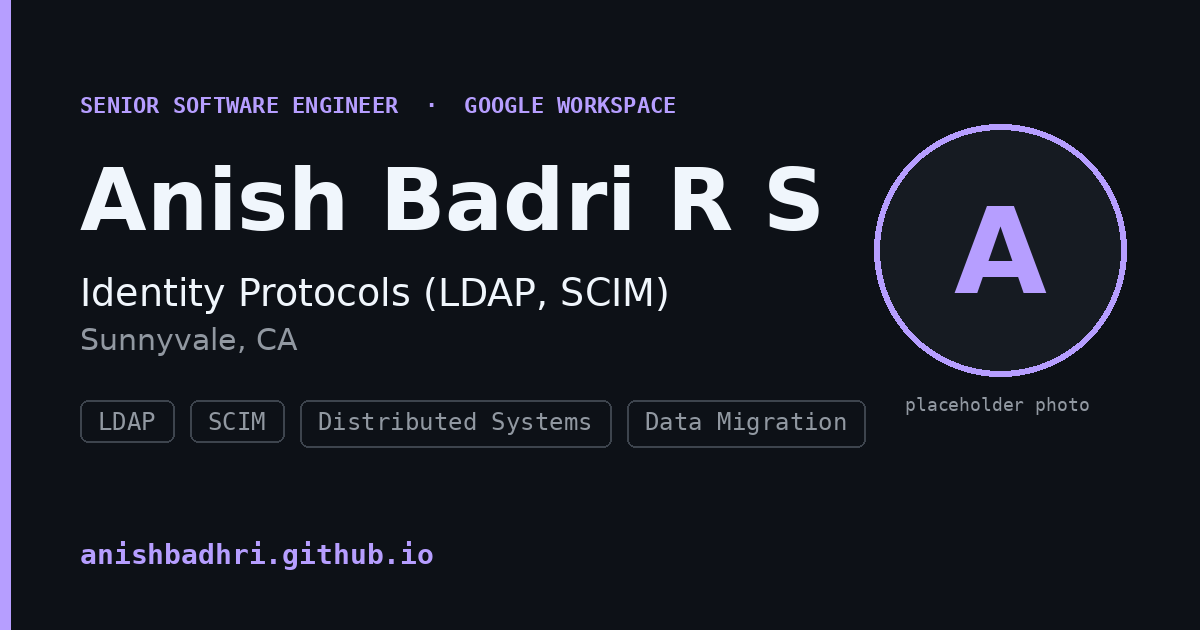
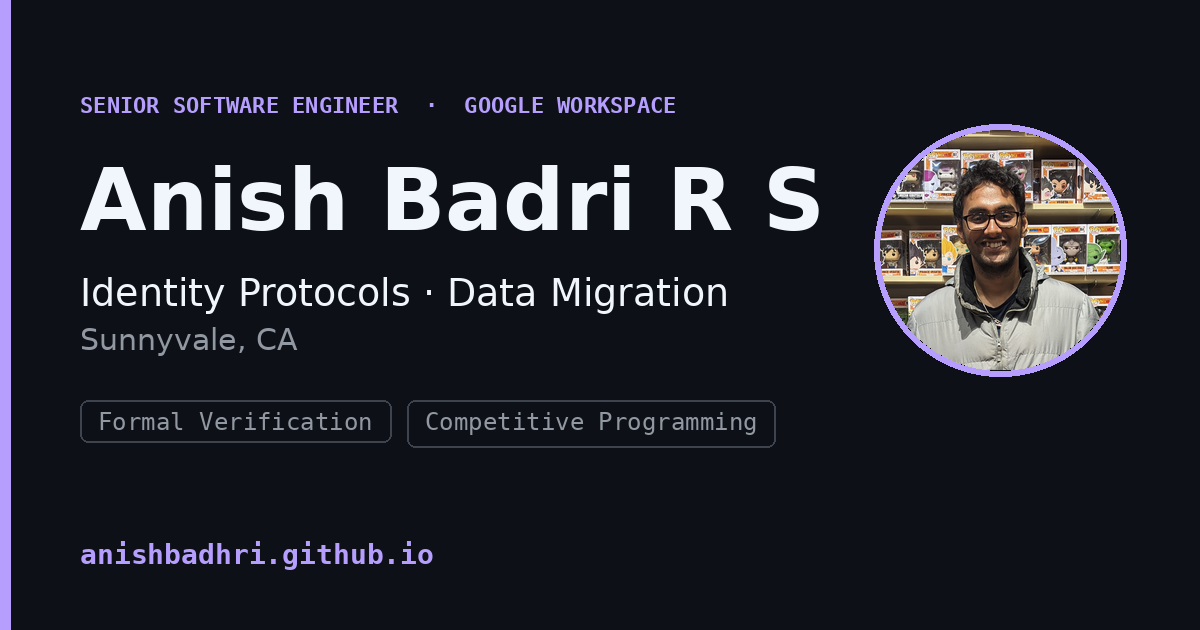
Updating profile

diff --git a/src/_data/resume.js b/src/_data/resume.js
@@ -1,59 +1,95 @@
 module.exports = {
   // Short intro shown under the hero.
   summary:
-    "I build identity and data-migration systems at Google Workspace, currently as a tech lead working across identity protocols such as LDAP and SCIM. Before that I spent years on competitive programming and formal verification — compilers, model checkers and SAT solvers — and I still like problems that need both.",
+    "I'm a senior software engineer at Google Workspace, where I work on identity protocols, building on earlier work in large-scale data migration and synchronization for enterprise customers. Before Google I spent years on competitive programming and formal verification — compilers, model checkers and SAT solvers — and I still gravitate toward problems that need both.",
 
+  // Experience is grouped by company; each company holds one or more roles
+  // (focuses). A single-role job is just a company with one role, so the same
+  // shape covers internships and multi-focus positions alike — add future
+  // entries the same way. Per role: title, org (sub-org/team, optional),
+  // location, focus (optional accent label), start (YYYY-MM, for <time>),
+  // dateLabel, current (optional), highlights, stack.
   experience: [
     {
-      role: "Senior Software Engineer",
-      org: "Google",
-      team: "Google Workspace · Sunnyvale, CA",
-      focus: "Identity Protocols (LDAP, SCIM)",
-      start: "2020-08",
-      dateLabel: "Aug 2020 – Present",
-      current: true,
-      highlights: [
-        "Tech lead across multiple identity-protocol projects in Google Workspace, spanning LDAP and SCIM.",
-        "Led the end-to-end design of full-stack data-migration and identity-synchronization services for enterprise customers.",
-        "Onboarded over 100K users from sources including Microsoft, IMAP servers and Dropbox.",
-        "Drove performance optimizations across migration services, improving scalability and cutting API latency by up to 67%.",
+      company: "Google",
+      roles: [
+        {
+          title: "Senior Software Engineer",
+          org: "Google Workspace",
+          location: "Sunnyvale, CA",
+          focus: "Identity Protocols (LDAP, SCIM)",
+          start: "2025-12",
+          dateLabel: "Dec 2025 – Present",
+          current: true,
+          highlights: [
+            "Tech lead across identity-protocol projects spanning Secure LDAP and SCIM.",
+          ],
+          stack: ["Java", "TypeScript", "Cloud Spanner", "LDAP", "SCIM", "Bigtable"],
+        },
+        {
+          title: "Software Engineer III",
+          org: "Google Workspace",
+          location: "Bengaluru, India",
+          focus: "Customer Onboarding (Data Migration)",
+          start: "2020-08",
+          dateLabel: "Aug 2020 – Nov 2025",
+          highlights: [
+            "Led the end-to-end design of full-stack data-migration and identity-synchronization services for enterprise customers.",
+            "Onboarded over 100K users from sources including Microsoft, IMAP servers and Dropbox.",
+            "Drove performance optimizations across migration services, improving scalability and cutting API latency by up to 67%.",
+          ],
+          stack: ["Java", "TypeScript", "Cloud Spanner", "Message Queues", "ETL Pipelines"],
+        },
       ],
-      stack: ["Java", "TypeScript", "Cloud Spanner", "Message Queues", "ETL Pipelines"],
-      note: "Earlier work at Google was in the Customer Onboarding team (Bengaluru).",
     },
     {
-      role: "Software Engineering Intern",
-      org: "Motorq",
-      team: "Chennai, India",
-      dateLabel: "Dec 2019 – Jan 2020",
-      highlights: [
-        "Automated A/B testing comparing data returned by production code and a new implementation.",
-        "Proposed testing improvements modelled on the stable-marriage problem.",
-        "Cut the time to push code to production by 12 hours.",
+      company: "Motorq",
+      roles: [
+        {
+          title: "Software Engineering Intern",
+          location: "Chennai, India",
+          start: "2019-12",
+          dateLabel: "Dec 2019 – Jan 2020",
+          highlights: [
+            "Automated A/B testing comparing data returned by production code and a new implementation.",
+            "Proposed testing improvements modelled on the stable-marriage problem.",
+            "Cut the time to push code to production by 12 hours.",
+          ],
+          stack: ["Snowflake", "Azure Blob Storage", "Node.js", "TypeScript"],
+        },
       ],
-      stack: ["Snowflake", "Azure Blob Storage", "Node.js", "TypeScript"],
     },
     {
-      role: "Software Engineering Intern",
-      org: "Google",
-      team: "Bengaluru, India",
-      dateLabel: "May 2019 – Jul 2019",
-      highlights: [
-        "Built a bridge from index pagination to token pagination for the list-users API, making time per call independent of the number of users.",
-        "Reduced the per-call upper bound from 12s to 3s.",
+      company: "Google",
+      roles: [
+        {
+          title: "Software Engineering Intern",
+          location: "Bengaluru, India",
+          start: "2019-05",
+          dateLabel: "May 2019 – Jul 2019",
+          highlights: [
+            "Built a bridge from index pagination to token pagination for the list-users API, making time per call independent of the number of users.",
+            "Reduced the per-call upper bound from 12s to 3s.",
+          ],
+          stack: ["Java", "Cloud Spanner", "Message Queues"],
+        },
       ],
-      stack: ["Java", "Cloud Spanner", "Message Queues"],
     },
     {
-      role: "Software Development Intern",
-      org: "Freshworks",
-      team: "Chennai, India",
-      dateLabel: "May 2018 – Jul 2018",
-      highlights: [
-        "Integrated Freshdesk with third-party applications using the Freshworks SDK on Node.js.",
-        "Removed tab-switching and kept data synchronized across applications.",
+      company: "Freshworks",
+      roles: [
+        {
+          title: "Software Development Intern",
+          location: "Chennai, India",
+          start: "2018-05",
+          dateLabel: "May 2018 – Jul 2018",
+          highlights: [
+            "Integrated Freshdesk with third-party applications using the Freshworks SDK on Node.js.",
+            "Removed tab-switching and kept data synchronized across applications.",
+          ],
+          stack: ["Node.js", "SDK Development"],
+        },
       ],
-      stack: ["Node.js", "SDK Development"],
     },
   ],
 

diff --git a/src/styles/components.css b/src/styles/components.css
@@ -93,30 +93,53 @@
 /* --- Experience ----------------------------------------------------------- */
 .exp {
   display: grid;
-  gap: 2.5rem;
+  gap: 2.75rem; /* between companies */
 }
-.exp__item {
+.exp__company {
   display: grid;
-  gap: 0.4rem 2rem;
-  grid-template-columns: 1fr;
+  gap: 1.1rem;
 }
-@media (min-width: 48rem) {
-  .exp__item {
-    grid-template-columns: 12rem 1fr;
-  }
+.exp__company-name {
+  font-size: 1.25rem;
+  font-weight: 650;
+  letter-spacing: -0.01em;
 }
+/* Roles of one company are grouped under a subtle rail. A single-role company
+   simply has one role here — same structure, no special casing. */
+.exp__roles {
+  display: grid;
+  gap: 1.75rem; /* between roles within a company */
+  border-inline-start: 2px solid var(--borderColor-default);
+  padding-inline-start: clamp(1rem, 3vw, 1.75rem);
+}
+.exp__role-item {
+  display: flex;
+  flex-wrap: wrap;
+  gap: 0.6rem 2rem;
+}
+/* Intrinsic "sidebar": the date column sits beside the body when there's room
+   and wraps above it when there isn't — no width breakpoint needed. */
 .exp__meta {
+  flex: 1 1 9rem;
   font-family: var(--fontStack-monospace);
   font-size: 0.8125rem;
   color: var(--fgColor-muted);
   padding-block-start: 0.3rem;
 }
+.exp__body {
+  flex: 999 1 0;
+  min-inline-size: min(100%, 20rem);
+}
 .exp__role {
+  font-family: var(--fontStack-sansSerifDisplay);
+  font-size: 1.0625rem;
+  font-weight: 600;
+  line-height: 1.3;
   margin-block-end: 0.15rem;
 }
 .exp__org {
   color: var(--fgColor-muted);
-  margin-block-end: 0.9rem;
+  margin-block-end: 0.5rem;
 }
 .exp__org .org-name {
   color: var(--fgColor-default);
@@ -153,22 +176,12 @@
   gap: 0.4rem;
   margin-block-start: 0.5rem;
 }
-.exp__note {
-  margin-block-start: 0.75rem;
-  font-size: 0.85rem;
-  color: var(--fgColor-muted);
-}
 
 /* --- Projects ------------------------------------------------------------- */
 .projects {
   display: grid;
   gap: 1.25rem;
-  grid-template-columns: 1fr;
-}
-@media (min-width: 44rem) {
-  .projects {
-    grid-template-columns: repeat(2, 1fr);
-  }
+  grid-template-columns: repeat(auto-fit, minmax(min(100%, 26rem), 1fr));
 }
 .project {
   display: flex;
@@ -215,12 +228,7 @@
 .skills {
   display: grid;
   gap: 1.75rem;
-  grid-template-columns: 1fr;
-}
-@media (min-width: 40rem) {
-  .skills {
-    grid-template-columns: repeat(2, 1fr);
-  }
+  grid-template-columns: repeat(auto-fit, minmax(min(100%, 22rem), 1fr));
 }
 .skills__group-title {
   font-family: var(--fontStack-monospace);
@@ -240,12 +248,7 @@
 .edu {
   display: grid;
   gap: 2rem;
-  grid-template-columns: 1fr;
-}
-@media (min-width: 48rem) {
-  .edu {
-    grid-template-columns: 1.1fr 1fr;
-  }
+  grid-template-columns: repeat(auto-fit, minmax(min(100%, 20rem), 1fr));
 }
 .edu__degree {
   margin-block: 0.3rem;
@@ -278,13 +281,8 @@
 /* --- Highlights ----------------------------------------------------------- */
 .highlights {
   display: grid;
-  gap: 0.7rem;
-  grid-template-columns: 1fr;
-}
-@media (min-width: 44rem) {
-  .highlights {
-    grid-template-columns: repeat(2, 1fr);
-  }
+  gap: 0.7rem 2rem;
+  grid-template-columns: repeat(auto-fit, minmax(min(100%, 22rem), 1fr));
 }
 .highlights li {
   position: relative;

diff --git a/src/_data/site.js b/src/_data/site.js
@@ -4,14 +4,13 @@ module.exports = {
   role: "Senior Software Engineer",
   org: "Google Workspace",
   location: "Sunnyvale, CA",
-  focus: "Identity Protocols (LDAP, SCIM)",
 
   // Canonical origin. No trailing slash here; templates add paths.
   url: "https://anishbadhri.github.io",
 
   // ~155 chars, keyword-led, for the meta description / OG / Twitter.
   description:
-    "Anish Badri R S — Senior Software Engineer at Google Workspace, Sunnyvale. Works on identity protocols (LDAP, SCIM), distributed systems and large-scale data migration.",
+    "Anish Badri R S — Senior Software Engineer at Google Workspace, Sunnyvale. Builds large-scale data-migration and synchronization systems; background in distributed systems and formal verification.",
 
   // Public contact + profiles (phone intentionally omitted).
   email: "anishbadhri@gmail.com",

diff --git a/scripts/og-image.py b/scripts/og-image.py
@@ -11,9 +11,16 @@ src/assets/profile.jpg and set USE_PHOTO = True below.
 """
 from PIL import Image, ImageDraw, ImageFont
 
-USE_PHOTO = False
+USE_PHOTO = True
 PHOTO_PATH = "src/assets/profile.jpg"
 OUT = "src/assets/og-image.png"
+
+# Avatar crop tuning (fractions of the source image). The avatar is a circle, so
+# this crops a square centred on the face of a standing portrait. Nudge
+# FACE_Y_FRAC up if the crop cuts off the forehead, down if it sits too low.
+CROP_FRAC = 0.40     # square side as a fraction of the shorter image edge
+FACE_X_FRAC = 0.50   # horizontal centre of the crop
+FACE_Y_FRAC = 0.28   # vertical centre of the crop (≈ where the face sits)
 
 W, H = 1200, 630
 BG = (13, 17, 23)        # Primer dark canvas
@@ -33,11 +40,11 @@ d.rectangle([0, 0, 10, H], fill=ACC)
 x = 80
 d.text((x, 92), "SENIOR SOFTWARE ENGINEER  ·  GOOGLE WORKSPACE", font=mono(22, True), fill=ACC)
 d.text((x, 150), "Anish Badri R S", font=sans(86, True), fill=FG)
-d.text((x, 270), "Identity Protocols (LDAP, SCIM)", font=sans(38), fill=FG)
+d.text((x, 270), "Identity Protocols · Data Migration", font=sans(38), fill=FG)
 d.text((x, 322), "Sunnyvale, CA", font=sans(30), fill=MUT)
 
 tx, ty, tf = x, 400, mono(24)
-for t in ["LDAP", "SCIM", "Distributed Systems", "Data Migration"]:
+for t in ["Formal Verification", "Competitive Programming"]:
     bb = d.textbbox((0, 0), t, font=tf)
     tw, th = bb[2]-bb[0], bb[3]-bb[1]
     d.rounded_rectangle([tx, ty, tx+tw+36, ty+th+24], radius=8, outline=BORDER, width=2)
@@ -49,11 +56,16 @@ d.text((x, H-92), "anishbadhri.github.io", font=mono(28, True), fill=ACC)
 # Right side: real photo (circular crop) or placeholder avatar.
 cx, cy, r = 1000, 250, 120
 if USE_PHOTO:
-    from PIL import ImageOps
-    photo = ImageOps.fit(Image.open(PHOTO_PATH).convert("RGB"), (2*r, 2*r))
-    mask = Image.new("L", (2*r, 2*r), 0)
-    ImageDraw.Draw(mask).ellipse([0, 0, 2*r, 2*r], fill=255)
-    img.paste(photo, (cx-r, cy-r), mask)
+    src = Image.open(PHOTO_PATH).convert("RGB")
+    sw, sh = src.size
+    side = int(min(sw, sh) * CROP_FRAC)
+    fcx, fcy = int(sw * FACE_X_FRAC), int(sh * FACE_Y_FRAC)
+    left = max(0, min(sw - side, fcx - side // 2))
+    top = max(0, min(sh - side, fcy - side // 2))
+    photo = src.crop((left, top, left + side, top + side)).resize((2 * r, 2 * r), Image.LANCZOS)
+    mask = Image.new("L", (2 * r, 2 * r), 0)
+    ImageDraw.Draw(mask).ellipse([0, 0, 2 * r, 2 * r], fill=255)
+    img.paste(photo, (cx - r, cy - r), mask)
     d.ellipse([cx-r-6, cy-r-6, cx+r+6, cy+r+6], outline=ACC, width=6)
 else:
     d.ellipse([cx-r-6, cy-r-6, cx+r+6, cy+r+6], outline=ACC, width=6)

diff --git a/README.md b/README.md
@@ -79,17 +79,21 @@ download — no code change needed.
 ### Profile photo
 The photo is intentionally **not shown on the page**. It is referenced in two
 places only: the `Person` structured data (`site.photo`) and the Open Graph
-image. To add your real photo:
+image. Your photo is already in place at `src/assets/profile.jpg`, and
+`scripts/og-image.py` has `USE_PHOTO = True`, so it appears in the share image.
 
-1. Drop a square image at `src/assets/profile.jpg`.
-2. Regenerate the share image with your photo:
+To replace it:
+
+1. Drop a new square-ish image at `src/assets/profile.jpg` (overwrite the file).
+2. Regenerate the share image:
    ```bash
    pip install Pillow
-   # set USE_PHOTO = True at the top of scripts/og-image.py, then:
    python scripts/og-image.py
    ```
-   (The `Person.image` URL in the schema already points at
-   `/assets/profile.jpg`, so that updates automatically.)
+   The avatar is a circular crop centred on the face. If the crop sits too high
+   or low, nudge `FACE_Y_FRAC` (and `CROP_FRAC` to zoom) at the top of the
+   script. The `Person.image` URL already points at `/assets/profile.jpg`, so the
+   schema updates automatically.
 
 ### Open Graph / share image
 `src/assets/og-image.png` (1200×630) is generated by `scripts/og-image.py`.
